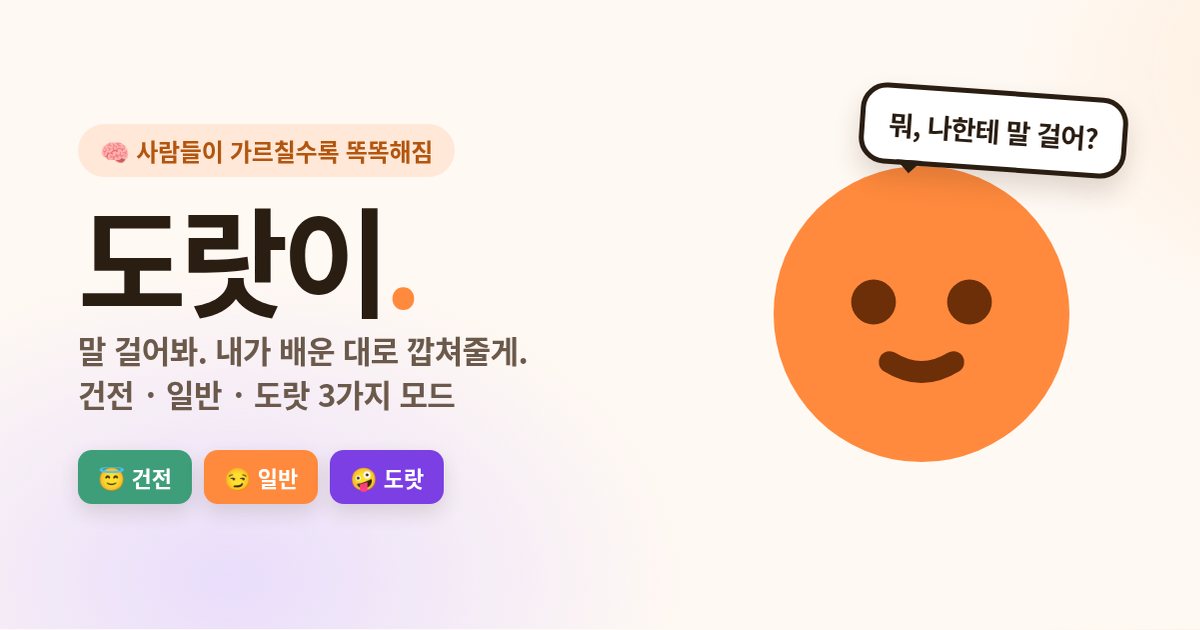
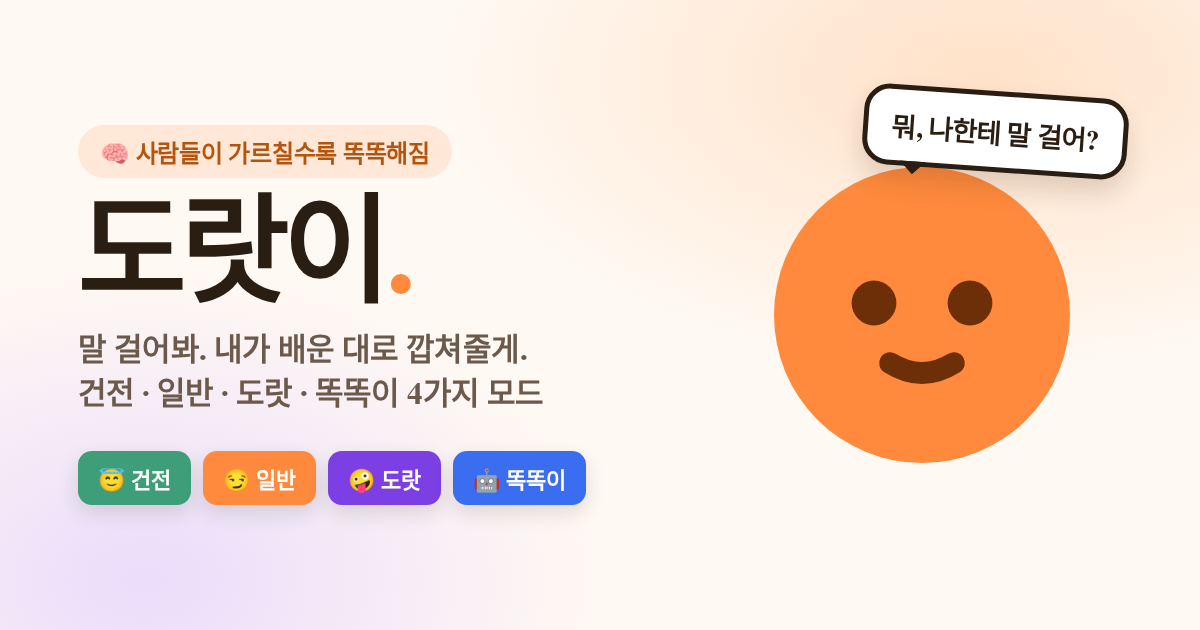
OG 썸네일 v1.7: 똑똑이 모드 추가(4모드 칩·부제) · og:image/twitter:image 캐시버스트 ?v=1.7

diff --git a/index.html b/index.html
@@ -15,11 +15,12 @@
 <meta property="og:type" content="website">
 <meta property="og:title" content="도랏이 — 세상에서 제일 깝치는 한국어 챗봇">
 <meta property="og:description" content="말 걸어봐. 내가 배운 대로 깝쳐줄게. (건전/일반/도랏/똑똑이 4모드)">
-<meta property="og:image" content="https://ageofwar-kr.github.io/dorati/assets/og.png">
+<meta property="og:image" content="https://ageofwar-kr.github.io/dorati/assets/og.png?v=1.7">
 <meta property="og:image:width" content="1200">
 <meta property="og:image:height" content="630">
 <meta property="og:url" content="https://ageofwar-kr.github.io/dorati/">
 <meta name="twitter:card" content="summary_large_image">
+<meta name="twitter:image" content="https://ageofwar-kr.github.io/dorati/assets/og.png?v=1.7">
 <script type="application/ld+json">
 {"@context":"https://schema.org","@type":"WebApplication","name":"도랏이","alternateName":"Dorati","url":"https://ageofwar-kr.github.io/dorati/","applicationCategory":"EntertainmentApplication","operatingSystem":"Web","inLanguage":"ko","description":"사람들이 가르친 말을 실시간으로 배우는 한국어 챗봇. 건전·일반·도랏·똑똑이 4가지 모드.","offers":{"@type":"Offer","price":"0","priceCurrency":"KRW"}}
 </script>

diff --git a/assets/og.html b/assets/og.html
@@ -32,6 +32,7 @@
   .c1{background:#3e9e7a}
   .c2{background:#ff8a3d}
   .c3{background:#7b3fe4}
+  .c4{background:#3a6df0}
   .right{position:relative;width:400px;height:400px;flex:0 0 400px}
   .right svg{width:400px;height:400px}
   .bubble{
@@ -46,8 +47,8 @@
   <div class="left">
     <span class="kicker">🧠 사람들이 가르칠수록 똑똑해짐</span>
     <h1>도랏이<span class="dot">.</span></h1>
-    <p class="sub">말 걸어봐. 내가 배운 대로 깝쳐줄게.<br>건전 · 일반 · 도랏 3가지 모드</p>
-    <div class="chips"><span class="chip c1">😇 건전</span><span class="chip c2">😏 일반</span><span class="chip c3">🤪 도랏</span></div>
+    <p class="sub">말 걸어봐. 내가 배운 대로 깝쳐줄게.<br>건전 · 일반 · 도랏 · 똑똑이 4가지 모드</p>
+    <div class="chips"><span class="chip c1">😇 건전</span><span class="chip c2">😏 일반</span><span class="chip c3">🤪 도랏</span><span class="chip c4">🤖 똑똑이</span></div>
   </div>
   <div class="right">
     <div class="bubble">뭐, 나한테 말 걸어?</div>

diff --git a/tools/render_og.py b/tools/render_og.py
@@ -1,0 +1,22 @@
+"""OG 썸네일(assets/og.png, 1200x630)을 assets/og.html로부터 다시 렌더한다.
+
+사용법: python3 tools/render_og.py   (repo 루트 기준 경로 자동 해석)
+필요: playwright + chromium (headless shell)
+"""
+from pathlib import Path
+
+from playwright.sync_api import sync_playwright
+
+ROOT = Path(__file__).resolve().parent.parent
+SRC = ROOT / "assets" / "og.html"
+OUT = ROOT / "assets" / "og.png"
+
+with sync_playwright() as p:
+    browser = p.chromium.launch()
+    page = browser.new_page(viewport={"width": 1200, "height": 630}, device_scale_factor=1)
+    page.goto(SRC.as_uri())
+    page.wait_for_timeout(500)
+    page.screenshot(path=str(OUT), clip={"x": 0, "y": 0, "width": 1200, "height": 630})
+    browser.close()
+
+print("saved", OUT)
